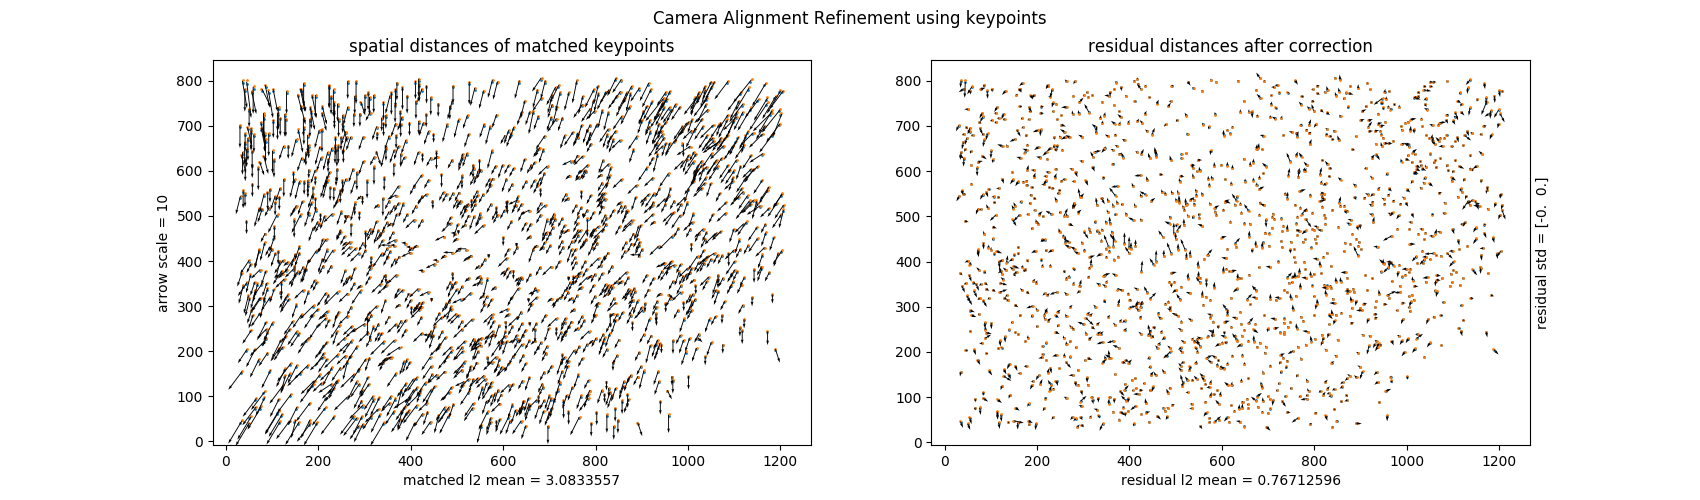
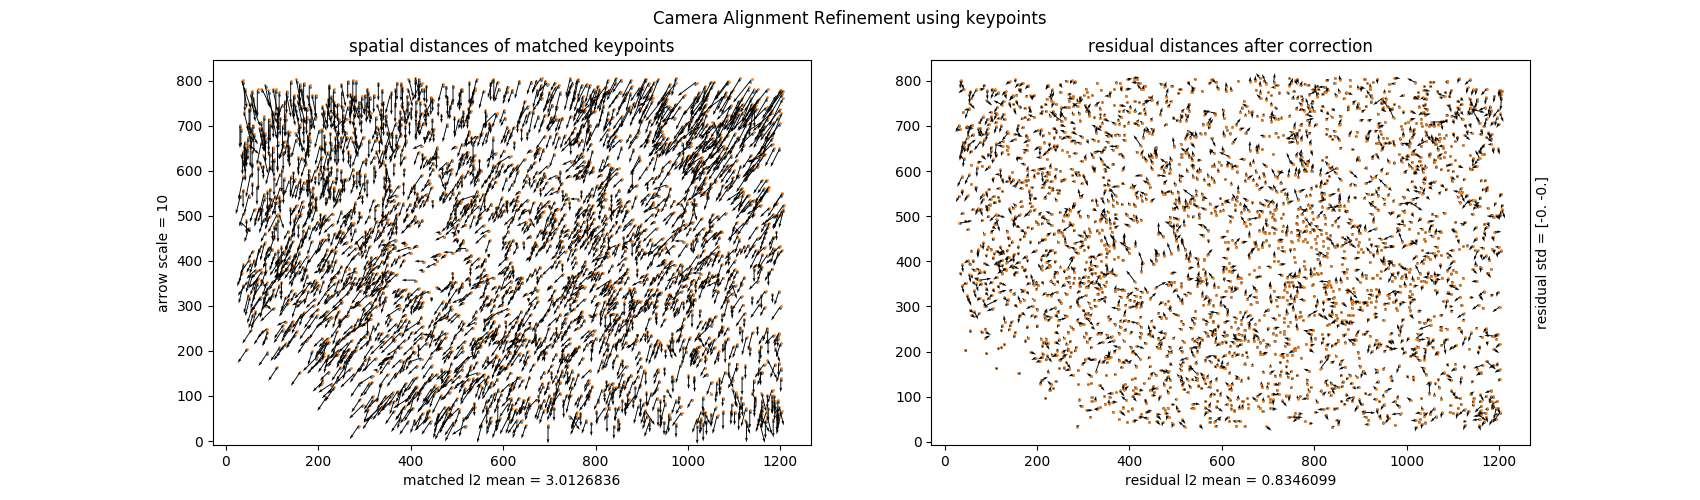
just add 1 octave for number of keypoint

diff --git a/src/keypoint.py b/src/keypoint.py
@@ -75,7 +75,7 @@ def keypoint_detect(img1, img2):
     #detector = cv2.xfeatures2d.SIFT_create(nfeatures=1000) # good ~5s
     
     # exact ~5s (increase parameter for higher precision)
-    detector = cv2.xfeatures2d.SURF_create(nOctaves=1, nOctaveLayers=1, upright=False)
+    detector = cv2.xfeatures2d.SURF_create(nOctaves=1, nOctaveLayers=2, upright=False)
     kp1 = detector.detect(img1,None)
     kp2 = detector.detect(img2,None)
     
